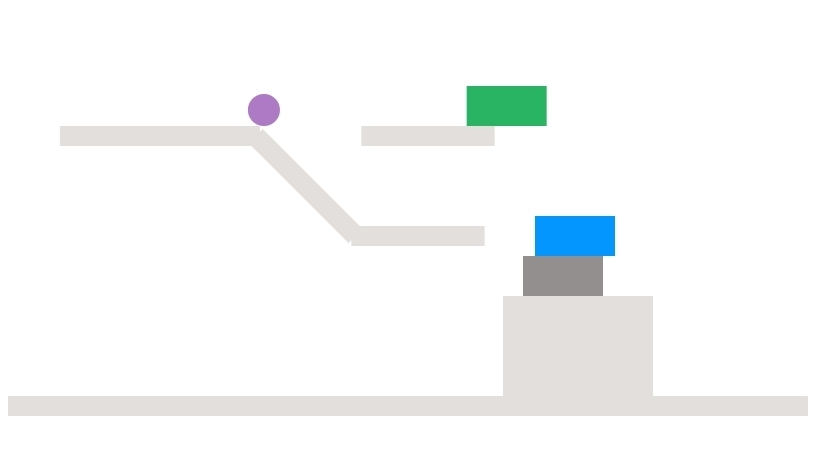
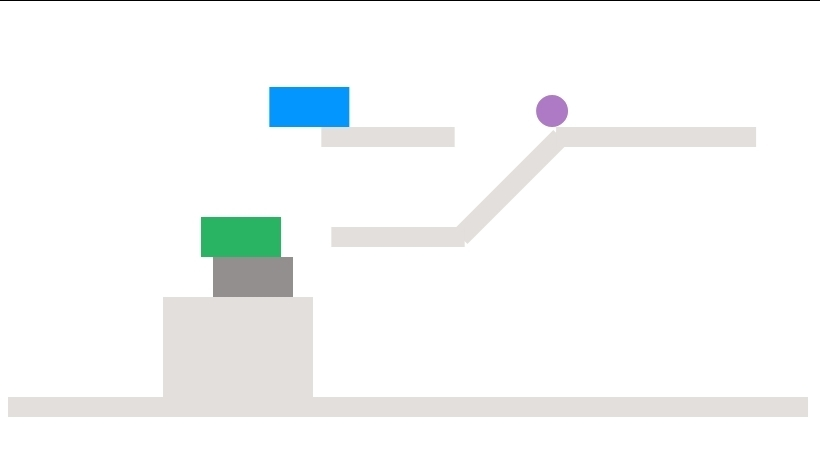
added distractor to independent trials

Changed region(s): [[0.061, 0.1867, 0.4573, 0.9022], [0.6098, 0.4667, 0.8232, 0.9022], [0.5488, 0.1867, 0.9451, 0.56]]

diff --git a/blocks/stimuli/04_test_stimuli.js b/blocks/stimuli/04_test_stimuli.js
@@ -20,8 +20,8 @@ make2ColoredBlocks = function(bases, priors_str, sides){
 
 testTrials_a_iff_c = function(priors){
   let data_ramp = priors[0] === priors[1] ?
-  {side: "right", i:1, 'moveBlock': 1, 'increase': true} :
-  {side: "left", i: 0, 'moveBlock': -1, 'increase': false};
+    {side: "right", i: 1, 'moveBlock': 1, 'increase': true} :
+    {side: "left", i: 0, 'moveBlock': -1, 'increase': false};
 
   let offset = data_ramp.side === "left" ? 50 : -50;
   let seesaw = Walls.test.seesaw_trials(offset)
@@ -71,6 +71,7 @@ testTrials_a_iff_c = function(priors){
 testTrials_ac = function(priors){
   // first block is on top of a wall, second block on top of an extra block
   let blocks = [];
+  let colors = assignColors();
   let p1 = priors[0];
   let p2 = priors[1];
   let data = ['ll', 'hl'].includes(p1[0]+p2[0]) ?
@@ -83,51 +84,48 @@ testTrials_ac = function(priors){
 
   let bX1 = block(data.pf.bounds[data.bX1_x].x + data.moveBlocksTo * 1.5 * props.blocks.h/2,
     data.pf.bounds.min.y, cols.darkgrey, 'bX1', true)
-  let b1 = blockOnBase(walls[0], PRIOR[priors[0]] * data.moveBlocksTo, cols.test_blocks[0], 'blockA', true);
-  let b2 = blockOnBase(bX1, PRIOR["very_low"] * data.moveBlocksTo, cols.test_blocks[1], 'blockC', true);
+  let b1 = blockOnBase(walls[0], PRIOR[priors[0]] * data.moveBlocksTo, cols.test_blocks[colors[0]], 'blockA', true);
+  let b2 = blockOnBase(bX1, PRIOR["very_low"] * data.moveBlocksTo, cols.test_blocks[colors[1]], 'blockC', true);
   blocks = blocks.concat([b1, b2, bX1]);
 
   return blocks.concat(objs)
 }
 
 testTrials_independent = function(priors){
-  let sides = [-1, -1]
-  let bases = Walls.test["independent"].slice(0,2);
+  let p1 = priors[0][0];
+  let p2 = priors[1][0];
+  let data = ['ll', 'uh', 'hl'].includes(p1[0]+p2[0]) ?
+    {walls: Walls.test.independent[0], increase: true, sides: [-1, -1]} :
+    {walls: Walls.test.independent[1], increase: false, sides: [1, 1]};
   // second block has to be moved further away from edge depending on prior
   // and angle of tilted wall has to be adjusted
-  let blocks = make2ColoredBlocks(bases, priors, sides);
+  let blocks = make2ColoredBlocks(data.walls, priors, data.sides);
   let b2 = blocks[1];
   let shift = independent_shift[priors[1]];
-  Matter.Body.setPosition(b2, {x: b2.position.x + shift, y: b2.position.y});
-  // add ramp walls
-  let objs = Walls.test["independent"];
-  if(priors[1] === "high") {
-    objs = objs.concat(Walls.test.tilted['independent_steep']);
-  } else {
-    objs = objs.concat(Walls.test.tilted['independent_plane']);
-  }
-  return blocks.concat(objs);
+  Matter.Body.setPosition(b2, {x: b2.position.x + shift * -data.sides[0], y: b2.position.y});
+  // add seesaw as distractor
+  let dist = seesaw(data.increase ? 220 : 580)
+  let tilt = priors[1] === "high" ? 'steep' : 'plane';
+  let ramp = Walls.test.tilted["independent"](tilt, data.increase, data.walls[1]);
+  let objs = data.walls.concat([dist.skeleton]).concat(ramp);
+  return blocks.concat([dist.plank, dist.constraint]).concat(objs);
 }
 
 makeTestStimuli = function(conditions, relations){
   relations.forEach(function(rel){
-    let sides = rel === "independent" ? [-1, -1] :
-                rel === "a_implies_c" ? [1, 1] : [1, -1]
     let priors_all = conditions[rel]
-
     for(var i=0; i<priors_all.length; i++){
       let priors = priors_all[i];
       let pb1 = priors[0]
       let pb2 = priors[1]
       let id = rel + '_' + pb1[0] + pb2[0];
-      let objs = [];
       let blocks = rel === "a_iff_c" ?
         testTrials_a_iff_c(priors) : rel === "a_implies_c" ?
         testTrials_ac(priors) : rel === "independent" ?
         testTrials_independent(priors) : null;
 
       // objs = objs.concat(Walls.test[rel]);
-      TestStimuli[rel][id] = {"objs": blocks.concat(objs), "meta": priors};
+      TestStimuli[rel][id] = {"objs": blocks, "meta": priors};
     }
   })
 }

diff --git a/blocks/stimuli/03_elements.js b/blocks/stimuli/03_elements.js
@@ -13,12 +13,17 @@ const Bottom = wall(label='bottom', x=scene.w/2, y=scene.h - props.bottom.h/2,
 // let P1 = wall(x=570, y=Bottom.bounds.min.y - 100/2, w=150, h=100, 'platform1');
 // let WP1 = wall(x= W1.bounds.max.x - 10, y=220, w=props.walls.w/1.5, h=props.walls.h, 'wallLowRightP1');
 
-let W1 = wall('w1_wallUpLeft', 320, 100);
-let W2 = wall('w2_wallLowRight', 420 - 10, 240);
-let W3 = wall('w3_wallRampLowInd', 410+4, 240, props.walls.w + 25)
-let W4 = wall('w4_wallUpRight', 550, 100);
-let W5 = wall('w5_wallShortUpRight', 420, 120, props.walls.w/1.5);
-let W5_2 = wall('w5_2_wallShortUpLeft', 380, 120, props.walls.w/1.5);
+let W1 = wall('w1_upLeft', 320, 100);
+let W1_2 = wall('w1_2_upRight', 480, 100);
+
+let W2 = wall('w2_lowRight', 420 - 10, 240);
+
+let W3 = wall('w3_rampLowInd', 410+4, 240, props.walls.w + 25)
+let W3_2 = wall('w3_2_rampLowInd', 390-4, 240, props.walls.w + 25)
+
+let W4 = wall('w4_upRight', 550, 100);
+let W5 = wall('w5_shortUpRight', 420, 120, props.walls.w/1.5);
+let W5_2 = wall('w5_2_shortUpLeft', 380, 120, props.walls.w/1.5);
 
 let P1 = wall('platform1', 570, Bottom.bounds.min.y - 100/2, 150, 100);
 let WP1 = wall('wp1', 420 - 10, 220, props.walls.w/1.5);
@@ -103,7 +108,7 @@ seesaw = function(pos){
 }
 
 // The first two list entries are respectively the bases for block1 and block2
-Walls.test = {'independent': [W1, W3], // tilted wall+ball added dep on prior
+Walls.test = {'independent': [[W1, W3], [W1_2, W3_2]], // tilted wall+ball added dep on prior
               'a_implies_c': [[W5, P1, WP1], [W5_2, P2, WP2]],
               'a_iff_c': []
               };
@@ -118,24 +123,20 @@ Walls.test.seesaw_trials = function(offset){
   return {'walls': walls, 'dynamic': [objs.plank, objs.constraint]}
 }
 
-Walls.test.tilted = {
-  'independent_steep': _.values(makeRamp(-45, true, W3)),
-  'independent_plane': _.values(makeRamp(-30, true, W3))
-  // 'a_implies_c_plane': _.values(makeRamp(-20, false, WP1)),
-  // 'a_implies_c_middle': _.values(makeRamp(-30, false, WP1)),
-  // 'a_implies_c_steep': _.values(makeRamp(-45, false, WP1))
+Walls.test.tilted = {};
+Walls.test.tilted['independent'] = function(tilt, increase, base){
+  let angle = tilt === "steep" ? -45 : -30;
+  return _.values(makeRamp(angle, increase, base))
 }
 
 Walls.test.tilted["a_implies_c"] = function(tilt, increase, base){
   let angle = tilt === "steep" ? -45 : tilt === 'plane' ? -20 : -30;
-  let ramp = makeRamp(angle, increase, base)
-  return _.values(ramp)
+  return _.values(makeRamp(angle, increase, base))
 }
 
 Walls.test.tilted['a_iff_c'] = function(tilt, increase, base){
   let angle = tilt === "steep" ? -25 : tilt === 'plane' ? -15 : null;
-  let ramp = makeRamp(angle, increase, base)
-  return _.values(ramp)
+  return _.values(makeRamp(angle, increase, base))
 }
 
 //// Elements for TRAINING TRIALS //////
